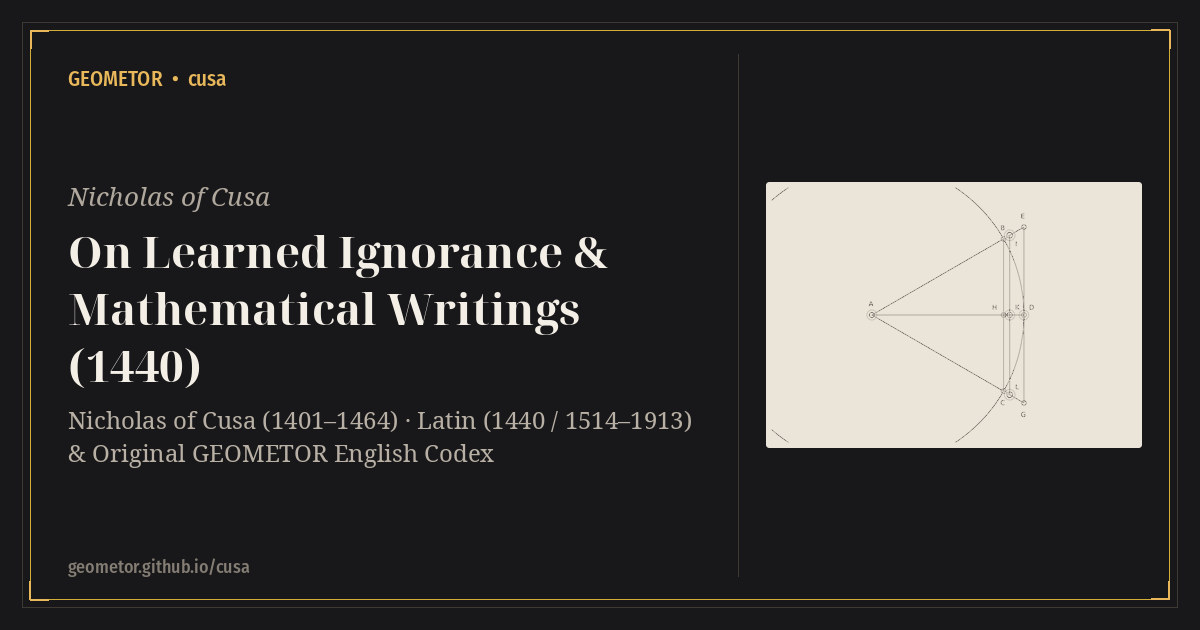
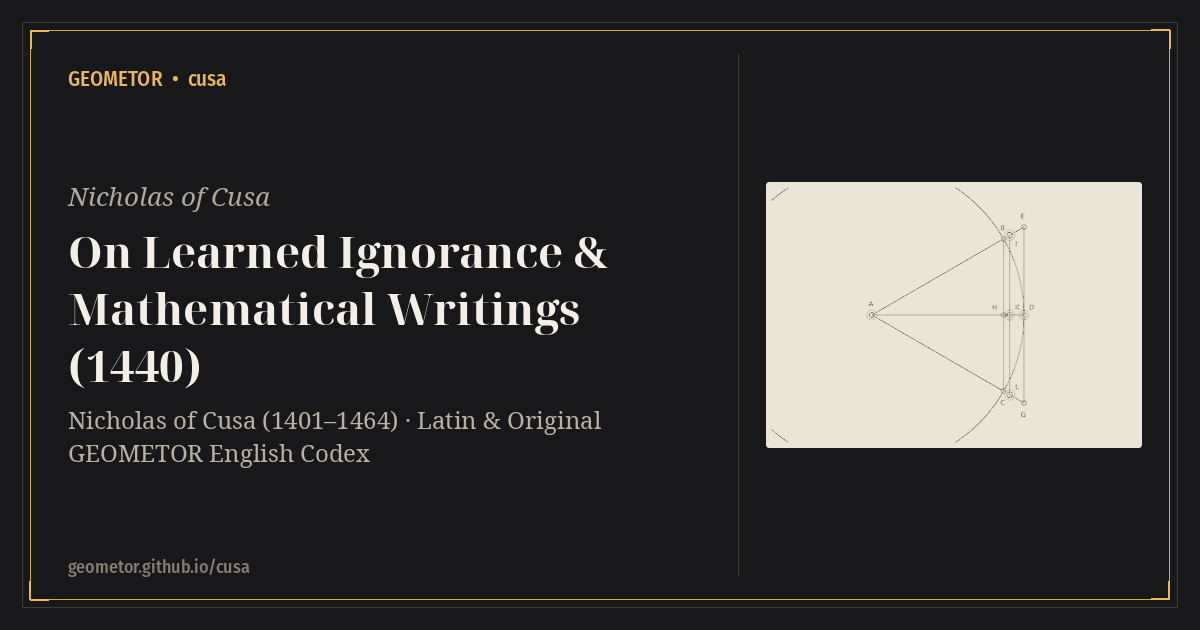
docs: add construction hero images, elevate English titles with native title tracks, and standardize track menus

Changed region(s): [[0.0617, 0.6937, 0.4008, 0.754], [0.4008, 0.6333, 0.5858, 0.6937]]

diff --git a/docsrc/log/26.316-initial-codex.rst b/docsrc/log/26.316-initial-codex.rst
@@ -12,6 +12,6 @@ Highlights of the Initial Edition
 ---------------------------------
 
 * **Archival Scan Collation & 100% Original English Translation**: Staged 10 SHA-256 verified Latin and original English plain-text witnesses across all five Codex units (124 synchronized bilingual paragraphs across 21 treatise sections) in ``resources/cusa/sources/``. Multimodal inspection of :person:`Raymond Klibansky's <klibansky>` annotated McGill copy of :person:`Paolo Rotta's <klibansky>` 1913 edition restored Rotta's two *homeoteleuton* omissions in ``DI I.13 §2`` and ``DI I.14 §3``.
-* **Four-Track Synchronized Book Codex**: Registered ``geometor.cusa.sphinx_ext`` labeling the ``-la`` track **Latin (1440 / 1514–1913)** alongside **English**, **Summary**, and **Critical Notes**, uniting *De Docta Ignorantia* (``Ded.``, ``I.1–4``, ``I.11–23``, ``II.11–12``, ``Ep.``) with *De Geometricis Transmutationibus* (1445), *De Mathematicis Complementis* (1453), *De Mathematica Perfectione* (1458), and the complete *Aurea Propositio in Mathematicis* (1459).
+* **Four-Track Synchronized Book Codex**: Registered ``geometor.cusa.sphinx_ext`` labeling the ``-la`` track **Latin** alongside **English**, **Summary**, and **Critical Notes**, uniting *De Docta Ignorantia* (``Ded.``, ``I.1–4``, ``I.11–23``, ``II.11–12``, ``Ep.``) with *De Geometricis Transmutationibus* (1445), *De Mathematicis Complementis* (1453), *De Mathematica Perfectione* (1458), and the complete *Aurea Propositio in Mathematicis* (1459).
 * **Exact Symbolic Proofs & Nine `.euclid-graphic` SVGs**: Verified with zero ``sp.Float`` approximations (1) tangent-circle sagitta asymptotics and bounded unit-circle Möbius inversion proving :math:`C'_R \to C'_\infty`, (2) Rational Trigonometry spreads :math:`s_{A_n} = \frac{4n^2}{(n^2+1)^2} \to 0` and Triple Quad residual :math:`\frac{16}{n^2} \to 0`, (3) regular polygon exhaustion (:math:`n = 3, 4, 6, 8, 12`), (4) the 1445 *sesquiquartal* rectification :math:`\pi_{\text{Cusa}} = \frac{24\sqrt{21}}{35}`, and (5) the 1458–1459 three-ray law :math:`\theta \approx \frac{3\sin\theta}{2 + \cos\theta}` with fifth-order Maclaurin residual :math:`\frac{\theta^5}{180}`.
 * **Scholarly Apparatus & Cross-Corpus Concordance**: Authored 26 glossary entries, 26 person biographies, 28 bibliographic citations, and 15 cross-corpus concordance records linking ``plato``, ``aristotle``, ``euclid``/``elements``, ``proclus``, ``aquinas``, ``hoenen``, ``pacioli``, ``pappus``, and ``wildberger``.

diff --git a/docsrc/de_docta_ignorantia/title-la.rst b/docsrc/de_docta_ignorantia/title-la.rst
@@ -1,0 +1,56 @@
+:type: book_title
+:layout: book
+:title: De Docta Ignorantia Libri Tres
+:book_title: De Docta Ignorantia Libri Tres
+:book_subtitle: Nicolaus Cusanus (Cusae, XII Februarii MCCCCXL)
+:author: Nicolaus Cusanus (1401–1464)
+:toc_label: Conspectus
+:persons_label: Index Nominum
+:bibliography_label: Bibliographia
+:glossary_label: Glossarium
+:tracks: English: index | Latin: title-la
+
+.. _de-docta-ignorantia-title-la:
+
+==============================
+De Docta Ignorantia Libri Tres
+==============================
+
+.. rubric:: *Nicolaus Cusanus* — Cusae, XII Februarii MCCCCXL
+
+.. container:: title-page
+
+   | **Nicolaus Cusanus** (1401–1464)
+   | Tituli Sancti Petri ad Vincula Presbyter Cardinalis · Episcopus Brixinensis
+   |
+   | *Editio Princeps*: Parisiis (Iodocus Badius Ascensius, 1514)
+   | *Editiones Criticae*: Barii (Paulus Rotta, 1913) · Heidelbergae (Hoffmann & Klibansky, 1932)
+
+----
+
+Conspectus Totius Operis
+------------------------
+
+Liber I — De Maximo Absoluto
+~~~~~~~~~~~~~~~~~~~~~~~~~~~~
+
+* Capitula I–IV: :doc:`Latin <liber_i/cap_01_04/la>` · :doc:`English <liber_i/cap_01_04/index>`
+* Capitula XI–XII: :doc:`Latin <liber_i/cap_11_12/la>` · :doc:`English <liber_i/cap_11_12/index>`
+* Capitula XIII–XV: :doc:`Latin <liber_i/cap_13_15/la>` · :doc:`English <liber_i/cap_13_15/index>`
+* Capitula XVI–XVII: :doc:`Latin <liber_i/cap_16_17/la>` · :doc:`English <liber_i/cap_16_17/index>`
+* Capitula XVIII–XX: :doc:`Latin <liber_i/cap_18_20/la>` · :doc:`English <liber_i/cap_18_20/index>`
+* Capitula XXI–XXIII: :doc:`Latin <liber_i/cap_21_23/la>` · :doc:`English <liber_i/cap_21_23/index>`
+
+Liber II — De Universo et Cosmologia
+~~~~~~~~~~~~~~~~~~~~~~~~~~~~~~~~~~~~
+
+* Capitula XI–XII: :doc:`Latin <liber_ii/cap_11_12/la>` · :doc:`English <liber_ii/cap_11_12/index>`
+
+----
+
+Apparatus Criticus
+------------------
+
+* :ref:`Bibliographia <bibliography>`
+* :ref:`Index Nominum <persons>`
+* :ref:`Glossarium <glossary>`

diff --git a/docsrc/de_docta_ignorantia/index.rst b/docsrc/de_docta_ignorantia/index.rst
@@ -4,7 +4,7 @@
 :layout: book
 :type: book
 :book_title: On Learned Ignorance & Mathematical Writings (1440)
-:book_subtitle: Nicholas of Cusa (1401–1464) · Latin (1440 / 1514–1913) & Original GEOMETOR English Codex
+:book_subtitle: Nicholas of Cusa (1401–1464) · Latin & Original GEOMETOR English Codex
 :author: Nicholas of Cusa
 :year: 1440
 :book_theme: classical-serif
@@ -28,7 +28,7 @@ On Learned Ignorance & Mathematical Writings (1440)
 
 **De Docta Ignorantia** presents in a critical Digital Scriptorium edition the complete geometric, epistemological, and cosmological core of :person:`Nicholas of Cusa's <cusanus>` *De Docta Ignorantia* (completed at Kues on **February 12, 1440**).
 
-Every chapter is presented across **four synchronized tracks**—**English** (a freshly authored, 100% original GEOMETOR translation rendered directly from the Latin), **Latin (1440 / 1514–1913)** (collated from :person:`Paolo Rotta's <klibansky>` 1913 edition with :person:`Raymond Klibansky's <klibansky>` archival restorations and the 1514 Paris / 1565 Basel *Opera*), **Summary**, and **Critical Notes** (pairing interactive ``.euclid-graphic`` SVG constructions with historical reception across antiquity, the Middle Ages, the Renaissance, and modern geometry).
+Every chapter is presented across **four synchronized tracks**—**English** (a freshly authored, 100% original GEOMETOR translation rendered directly from the Latin), **Latin** (collated from :person:`Paolo Rotta's <klibansky>` 1913 edition with :person:`Raymond Klibansky's <klibansky>` archival restorations and the 1514 Paris / 1565 Basel *Opera*), **Summary**, and **Critical Notes** (pairing interactive ``.euclid-graphic`` SVG constructions with historical reception across antiquity, the Middle Ages, the Renaissance, and modern geometry).
 
 Books of the Treatise
 ---------------------

diff --git a/README.rst b/README.rst
@@ -3,6 +3,11 @@ GEOMETOR • cusa
 
 **Visit the Online Archive:** https://geometor.github.io/cusa/
 
+.. image:: docsrc/_static/figures/cusa_aurea_propositio_1459.svg
+   :alt: GEOMETOR • cusa featured geometric construction
+   :target: https://geometor.github.io/cusa/
+   :align: center
+
 **Nicholas of Cusa • De Docta Ignorantia, De Mathematicis Complementis • semantic digital archive**
 
 Mission
@@ -13,8 +18,8 @@ Mission
 Books in This Archive
 ---------------------
 
-- **`On Learned Ignorance & Mathematical Writings (1440) <https://geometor.github.io/cusa/de_docta_ignorantia/>`_** — *De Docta Ignorantia* Book I (Chapters 1–23) and Book II (Chapters 11–12), developing the maximum and minimum, the coincidence of geometric figures, the infinite sphere, and centerless cosmology.
-- **`De Mathematicis Complementis <https://geometor.github.io/cusa/de_mathematicis_complementis/>`_** — Cusa's *Scripta Mathematica* (1445–1459), including *De Geometricis Transmutationibus*, *De Mathematicis Complementis*, *De Mathematica Perfectione*, and the *Aurea Propositio*.
+- **`On Learned Ignorance and Mathematical Writings <https://geometor.github.io/cusa/de_docta_ignorantia/>`_** — *De Docta Ignorantia* Book I (Chapters 1–23) and Book II (Chapters 11–12), developing the maximum and minimum, the coincidence of geometric figures, the infinite sphere, and centerless cosmology.
+- **`On Mathematical Complements <https://geometor.github.io/cusa/de_mathematicis_complementis/>`_** — *De Mathematicis Complementis* and *Scripta Mathematica* (1445–1459), including *On Geometric Transmutations*, *On Mathematical Complements*, *On Mathematical Perfection*, and *The Golden Proposition*.
 
 Repository Contents
 -------------------

diff --git a/docsrc/de_mathematicis_complementis/title-la.rst b/docsrc/de_mathematicis_complementis/title-la.rst
@@ -1,0 +1,61 @@
+:type: book_title
+:layout: book
+:title: De Mathematicis Complementis
+:book_title: De Mathematicis Complementis
+:book_subtitle: Scripta Mathematica (1445–1459) — Nicolaus Cusanus
+:author: Nicolaus Cusanus (1401–1464)
+:toc_label: Conspectus
+:persons_label: Index Nominum
+:bibliography_label: Bibliographia
+:glossary_label: Glossarium
+:tracks: English: index | Latin: title-la
+
+.. _de-mathematicis-complementis-title-la:
+
+============================
+De Mathematicis Complementis
+============================
+
+.. rubric:: *Scripta Mathematica* (1445–1459) — Nicolaus Cusanus
+
+.. container:: title-page
+
+   | **Nicolaus Cusanus** (1401–1464)
+   | Tituli Sancti Petri ad Vincula Presbyter Cardinalis · Episcopus Brixinensis
+   |
+   | *Editio Princeps*: Parisiis (Iodocus Badius Ascensius, 1514)
+   | *Editiones Criticae*: Heidelbergae (*Opera Omnia* XX, 2010) · Basileae (1565)
+
+----
+
+Conspectus Operum
+-----------------
+
+De Geometricis Transmutationibus (1445)
+~~~~~~~~~~~~~~~~~~~~~~~~~~~~~~~~~~~~~~~
+
+:ref:`Latin <transmutatio_1445-la>` · :ref:`English <transmutatio_1445>`
+
+De Mathematicis Complementis (1453)
+~~~~~~~~~~~~~~~~~~~~~~~~~~~~~~~~~~~
+
+:ref:`Latin <complementa_1453-la>` · :ref:`English <complementa_1453>`
+
+De Mathematica Perfectione (1458)
+~~~~~~~~~~~~~~~~~~~~~~~~~~~~~~~~~
+
+:ref:`Latin <perfectio_1458-la>` · :ref:`English <perfectio_1458>`
+
+Aurea Propositio in Mathematicis (1459)
+~~~~~~~~~~~~~~~~~~~~~~~~~~~~~~~~~~~~~~~
+
+:ref:`Latin <aurea_propositio_1459-la>` · :ref:`English <aurea_propositio_1459>`
+
+----
+
+Apparatus Criticus
+------------------
+
+* :ref:`Bibliographia <bibliography>`
+* :ref:`Index Nominum <persons>`
+* :ref:`Glossarium <glossary>`

diff --git a/docsrc/de_docta_ignorantia/liber_i/cap_01_04/la.rst b/docsrc/de_docta_ignorantia/liber_i/cap_01_04/la.rst
@@ -1,17 +1,17 @@
 :order: 10
 :layout: book
 :type: la
-:title: Learned Ignorance, Polygon Exhaustion & the Coincidence of Maximum and Minimum — Latin (1440 / 1514–1913)
+:title: Learned Ignorance, Polygon Exhaustion & the Coincidence of Maximum and Minimum — Latin
 :canonical_id: DI I.1–4
 :original_id: DI I.1–4
 :folio: DI Ded., I.1–4, Ep. (1440)
-:tracks: English: index | Latin (1440 / 1514–1913): la | Summary: summary | Notes: notes
+:tracks: English: index | Latin: la | Summary: summary | Notes: notes
 
 .. _cap_01_04-la:
 .. _unit-1-maximum-ignorantia-la:
 
 =========================================================================================================
-Learned Ignorance, Polygon Exhaustion & the Coincidence of Maximum and Minimum — Latin (1440 / 1514–1913)
+Learned Ignorance, Polygon Exhaustion & the Coincidence of Maximum and Minimum — Latin
 =========================================================================================================
 
 .. rubric:: Textus Latinus Collatis Editionibus Parisiensi (1514), Basileensi (1565) et Rottae (1913) · DI Ded., I.1–4, Ep. (1440)

diff --git a/docsrc/de_mathematicis_complementis/aurea_propositio_1459/la.rst b/docsrc/de_mathematicis_complementis/aurea_propositio_1459/la.rst
@@ -1,16 +1,16 @@
 :order: 110
 :layout: book
 :type: la
-:title: Aurea Propositio in Mathematicis — Three-Ray Sum Invariance and the Golden Proposition — Latin (1440 / 1514–1913)
+:title: Aurea Propositio in Mathematicis — Three-Ray Sum Invariance and the Golden Proposition — Latin
 :canonical_id: APM (1459)
 :original_id: APM (1459)
 :folio: APM (1459)
-:tracks: English: index | Latin (1440 / 1514–1913): la | Summary: summary | Notes: notes
+:tracks: English: index | Latin: la | Summary: summary | Notes: notes
 
 .. _aurea_propositio_1459-la:
 
 =================================================================================================================
-Aurea Propositio in Mathematicis — Three-Ray Sum Invariance and the Golden Proposition — Latin (1440 / 1514–1913)
+Aurea Propositio in Mathematicis — Three-Ray Sum Invariance and the Golden Proposition — Latin
 =================================================================================================================
 
 .. rubric:: Textus Latinus Collatis Editionibus Parisiensi (1514), Basileensi (1565) et Rottae (1913) · APM (1459)

diff --git a/docsrc/de_mathematicis_complementis/transmutatio_1445/la.rst b/docsrc/de_mathematicis_complementis/transmutatio_1445/la.rst
@@ -1,16 +1,16 @@
 :order: 80
 :layout: book
 :type: la
-:title: De Geometricis Transmutationibus — Isoperimetric Extrema and the Sesquiquartal Radius — Latin (1440 / 1514–1913)
+:title: De Geometricis Transmutationibus — Isoperimetric Extrema and the Sesquiquartal Radius — Latin
 :canonical_id: DGT (1445)
 :original_id: DGT (1445)
 :folio: DGT (1445)
-:tracks: English: index | Latin (1440 / 1514–1913): la | Summary: summary | Notes: notes
+:tracks: English: index | Latin: la | Summary: summary | Notes: notes
 
 .. _transmutatio_1445-la:
 
 ================================================================================================================
-De Geometricis Transmutationibus — Isoperimetric Extrema and the Sesquiquartal Radius — Latin (1440 / 1514–1913)
+De Geometricis Transmutationibus — Isoperimetric Extrema and the Sesquiquartal Radius — Latin
 ================================================================================================================
 
 .. rubric:: Textus Latinus Collatis Editionibus Parisiensi (1514), Basileensi (1565) et Rottae (1913) · DGT (1445)

diff --git a/docsrc/de_docta_ignorantia/liber_i/cap_11_12/la.rst b/docsrc/de_docta_ignorantia/liber_i/cap_11_12/la.rst
@@ -1,17 +1,17 @@
 :order: 20
 :layout: book
 :type: la
-:title: Incorruptible Certitude & the Three-Step Method of Mathematical Transsumption — Latin (1440 / 1514–1913)
+:title: Incorruptible Certitude & the Three-Step Method of Mathematical Transsumption — Latin
 :canonical_id: DI I.11–12
 :original_id: DI I.11–12
 :folio: DI I.11–12 (1440)
-:tracks: English: index | Latin (1440 / 1514–1913): la | Summary: summary | Notes: notes
+:tracks: English: index | Latin: la | Summary: summary | Notes: notes
 
 .. _cap_11_12-la:
 .. _unit-2-mathematica-transsumptio-la:
 
 ========================================================================================================
-Incorruptible Certitude & the Three-Step Method of Mathematical Transsumption — Latin (1440 / 1514–1913)
+Incorruptible Certitude & the Three-Step Method of Mathematical Transsumption — Latin
 ========================================================================================================
 
 .. rubric:: Textus Latinus Collatis Editionibus Parisiensi (1514), Basileensi (1565) et Rottae (1913) · DI I.11–12 (1440)

diff --git a/docsrc/de_mathematicis_complementis/complementa_1453/la.rst b/docsrc/de_mathematicis_complementis/complementa_1453/la.rst
@@ -1,16 +1,16 @@
 :order: 90
 :layout: book
 :type: la
-:title: De Mathematicis Complementis — Inradius, Circumradius, and Archimedes' Spiral — Latin (1440 / 1514–1913)
+:title: De Mathematicis Complementis — Inradius, Circumradius, and Archimedes' Spiral — Latin
 :canonical_id: DMC (1453)
 :original_id: DMC (1453)
 :folio: DMC (1453)
-:tracks: English: index | Latin (1440 / 1514–1913): la | Summary: summary | Notes: notes
+:tracks: English: index | Latin: la | Summary: summary | Notes: notes
 
 .. _complementa_1453-la:
 
 ========================================================================================================
-De Mathematicis Complementis — Inradius, Circumradius, and Archimedes' Spiral — Latin (1440 / 1514–1913)
+De Mathematicis Complementis — Inradius, Circumradius, and Archimedes' Spiral — Latin
 ========================================================================================================
 
 .. rubric:: Textus Latinus Collatis Editionibus Parisiensi (1514), Basileensi (1565) et Rottae (1913) · DMC (1453)

diff --git a/docsrc/de_docta_ignorantia/liber_ii/cap_11_12/la.rst b/docsrc/de_docta_ignorantia/liber_ii/cap_11_12/la.rst
@@ -1,17 +1,17 @@
 :order: 70
 :layout: book
 :type: la
-:title: Centerless Cosmology, Kinematic Relativity & the Fabric of the World — Latin (1440 / 1514–1913)
+:title: Centerless Cosmology, Kinematic Relativity & the Fabric of the World — Latin
 :canonical_id: DI II.11–12
 :original_id: DI II.11–12
 :folio: DI II.11–12 (1440)
-:tracks: English: index | Latin (1440 / 1514–1913): la | Summary: summary | Notes: notes
+:tracks: English: index | Latin: la | Summary: summary | Notes: notes
 
 .. _cap_11_12-la:
 .. _unit-5-cosmologia-complementa-la:
 
 ===============================================================================================
-Centerless Cosmology, Kinematic Relativity & the Fabric of the World — Latin (1440 / 1514–1913)
+Centerless Cosmology, Kinematic Relativity & the Fabric of the World — Latin
 ===============================================================================================
 
 .. rubric:: Textus Latinus Collatis Editionibus Parisiensi (1514), Basileensi (1565) et Rottae (1913) · DI II.11–12 (1440)

diff --git a/docsrc/de_docta_ignorantia/liber_i/cap_18_20/la.rst b/docsrc/de_docta_ignorantia/liber_i/cap_18_20/la.rst
@@ -1,16 +1,16 @@
 :order: 50
 :layout: book
 :type: la
-:title: Transsumption of the Triangle: Divine Triunity & Exclusion of Quaternity — Latin (1440 / 1514–1913)
+:title: Transsumption of the Triangle: Divine Triunity & Exclusion of Quaternity — Latin
 :canonical_id: DI I.18–20
 :original_id: DI I.18–20
 :folio: DI I.18–20 (1440)
-:tracks: English: index | Latin (1440 / 1514–1913): la | Summary: summary | Notes: notes
+:tracks: English: index | Latin: la | Summary: summary | Notes: notes
 
 .. _cap_18_20-la:
 
 ===================================================================================================
-Transsumption of the Triangle: Divine Triunity & Exclusion of Quaternity — Latin (1440 / 1514–1913)
+Transsumption of the Triangle: Divine Triunity & Exclusion of Quaternity — Latin
 ===================================================================================================
 
 .. rubric:: Textus Latinus Collatis Editionibus Parisiensi (1514), Basileensi (1565) et Rottae (1913) · DI I.18–20 (1440)
